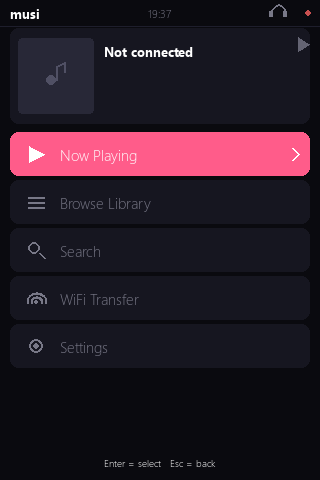
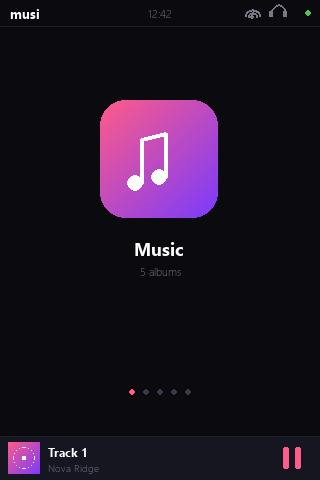
docs(readme): refresh screenshots to match the current UI
The prior captures predated the launcher-carousel and music-app-dock
redesigns. Regenerated headlessly (pygame dummy driver + a seeded
in-memory library, synthetic art in place of real photos) to show the
current home, music app (library grid), and now-playing screens.

Claude-Session: https://claude.ai/code/session_01Qf8RFSdToXmPFTmzXdoyYN

diff --git a/README.md b/README.md
@@ -24,9 +24,9 @@ over-the-air updates.
 <p align="center">
   <img src="docs/screenshots/home.png" width="200" alt="Home screen" />
   &nbsp;&nbsp;
-  <img src="docs/screenshots/browse.png" width="200" alt="Browse library screen" />
+  <img src="docs/screenshots/browse.png" width="200" alt="Music app — library grid" />
   &nbsp;&nbsp;
-  <img src="docs/screenshots/settings.png" width="200" alt="Settings screen" />
+  <img src="docs/screenshots/now-playing.png" width="200" alt="Now Playing screen" />
 </p>
 
 ---
